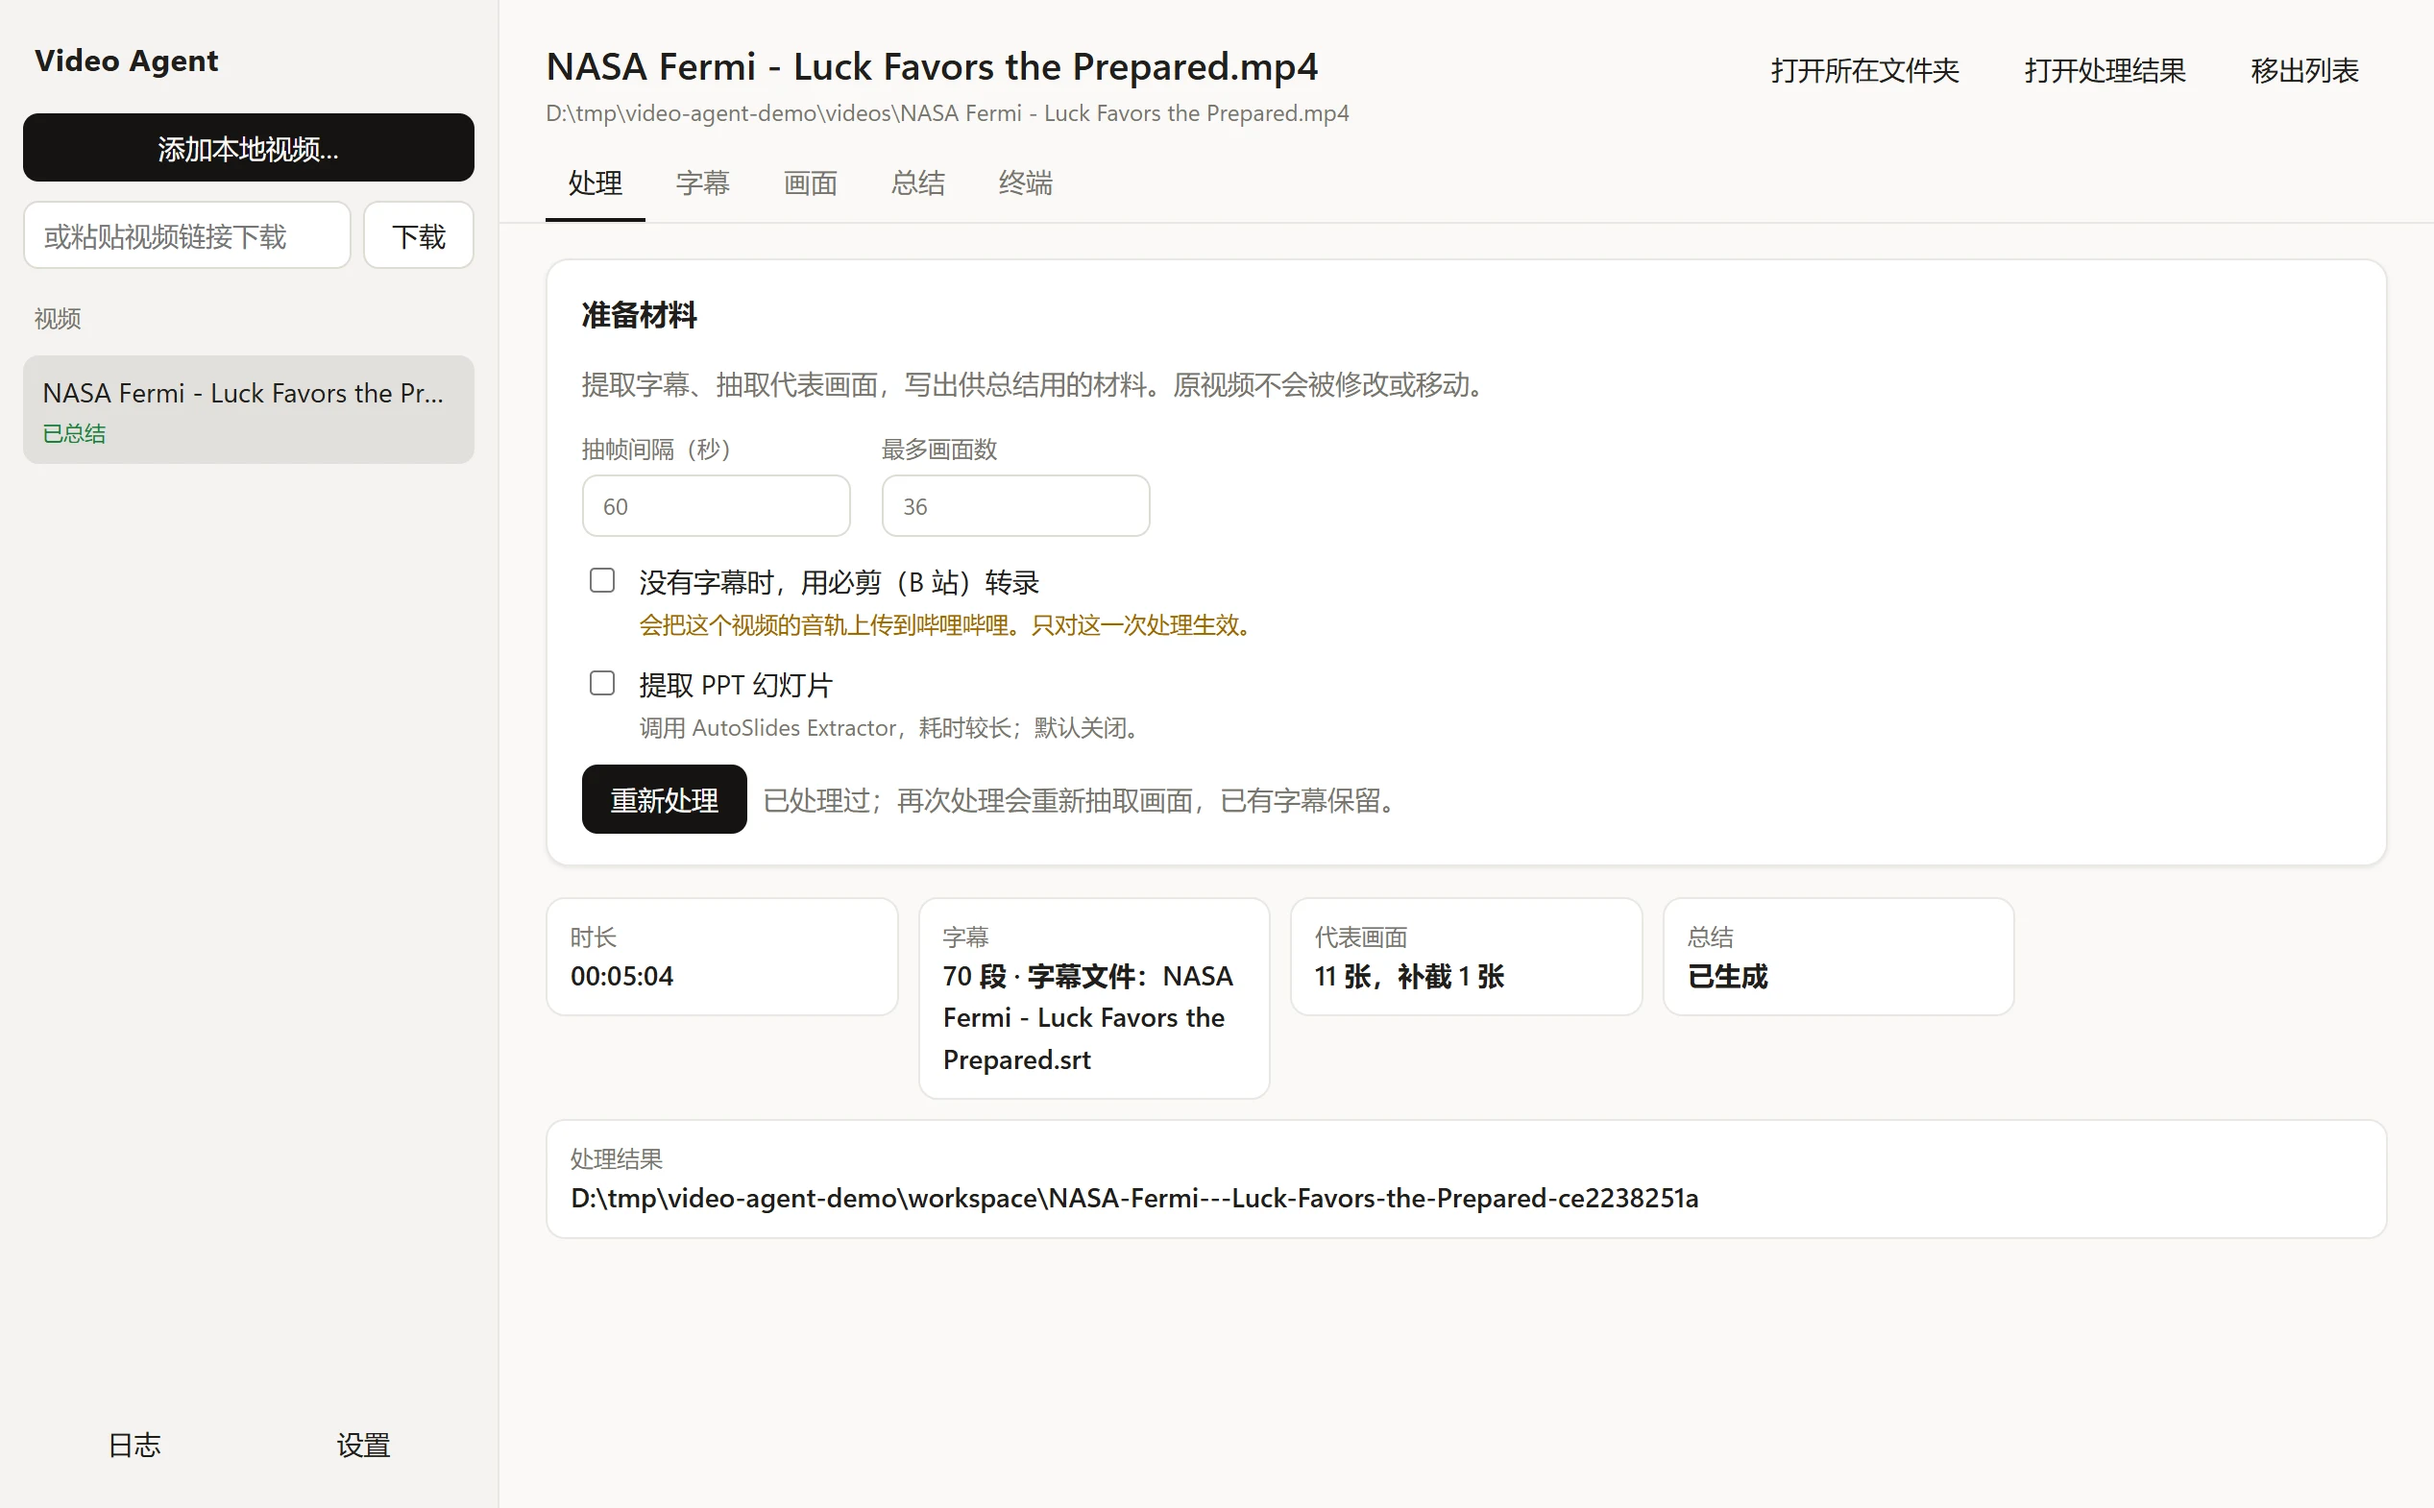
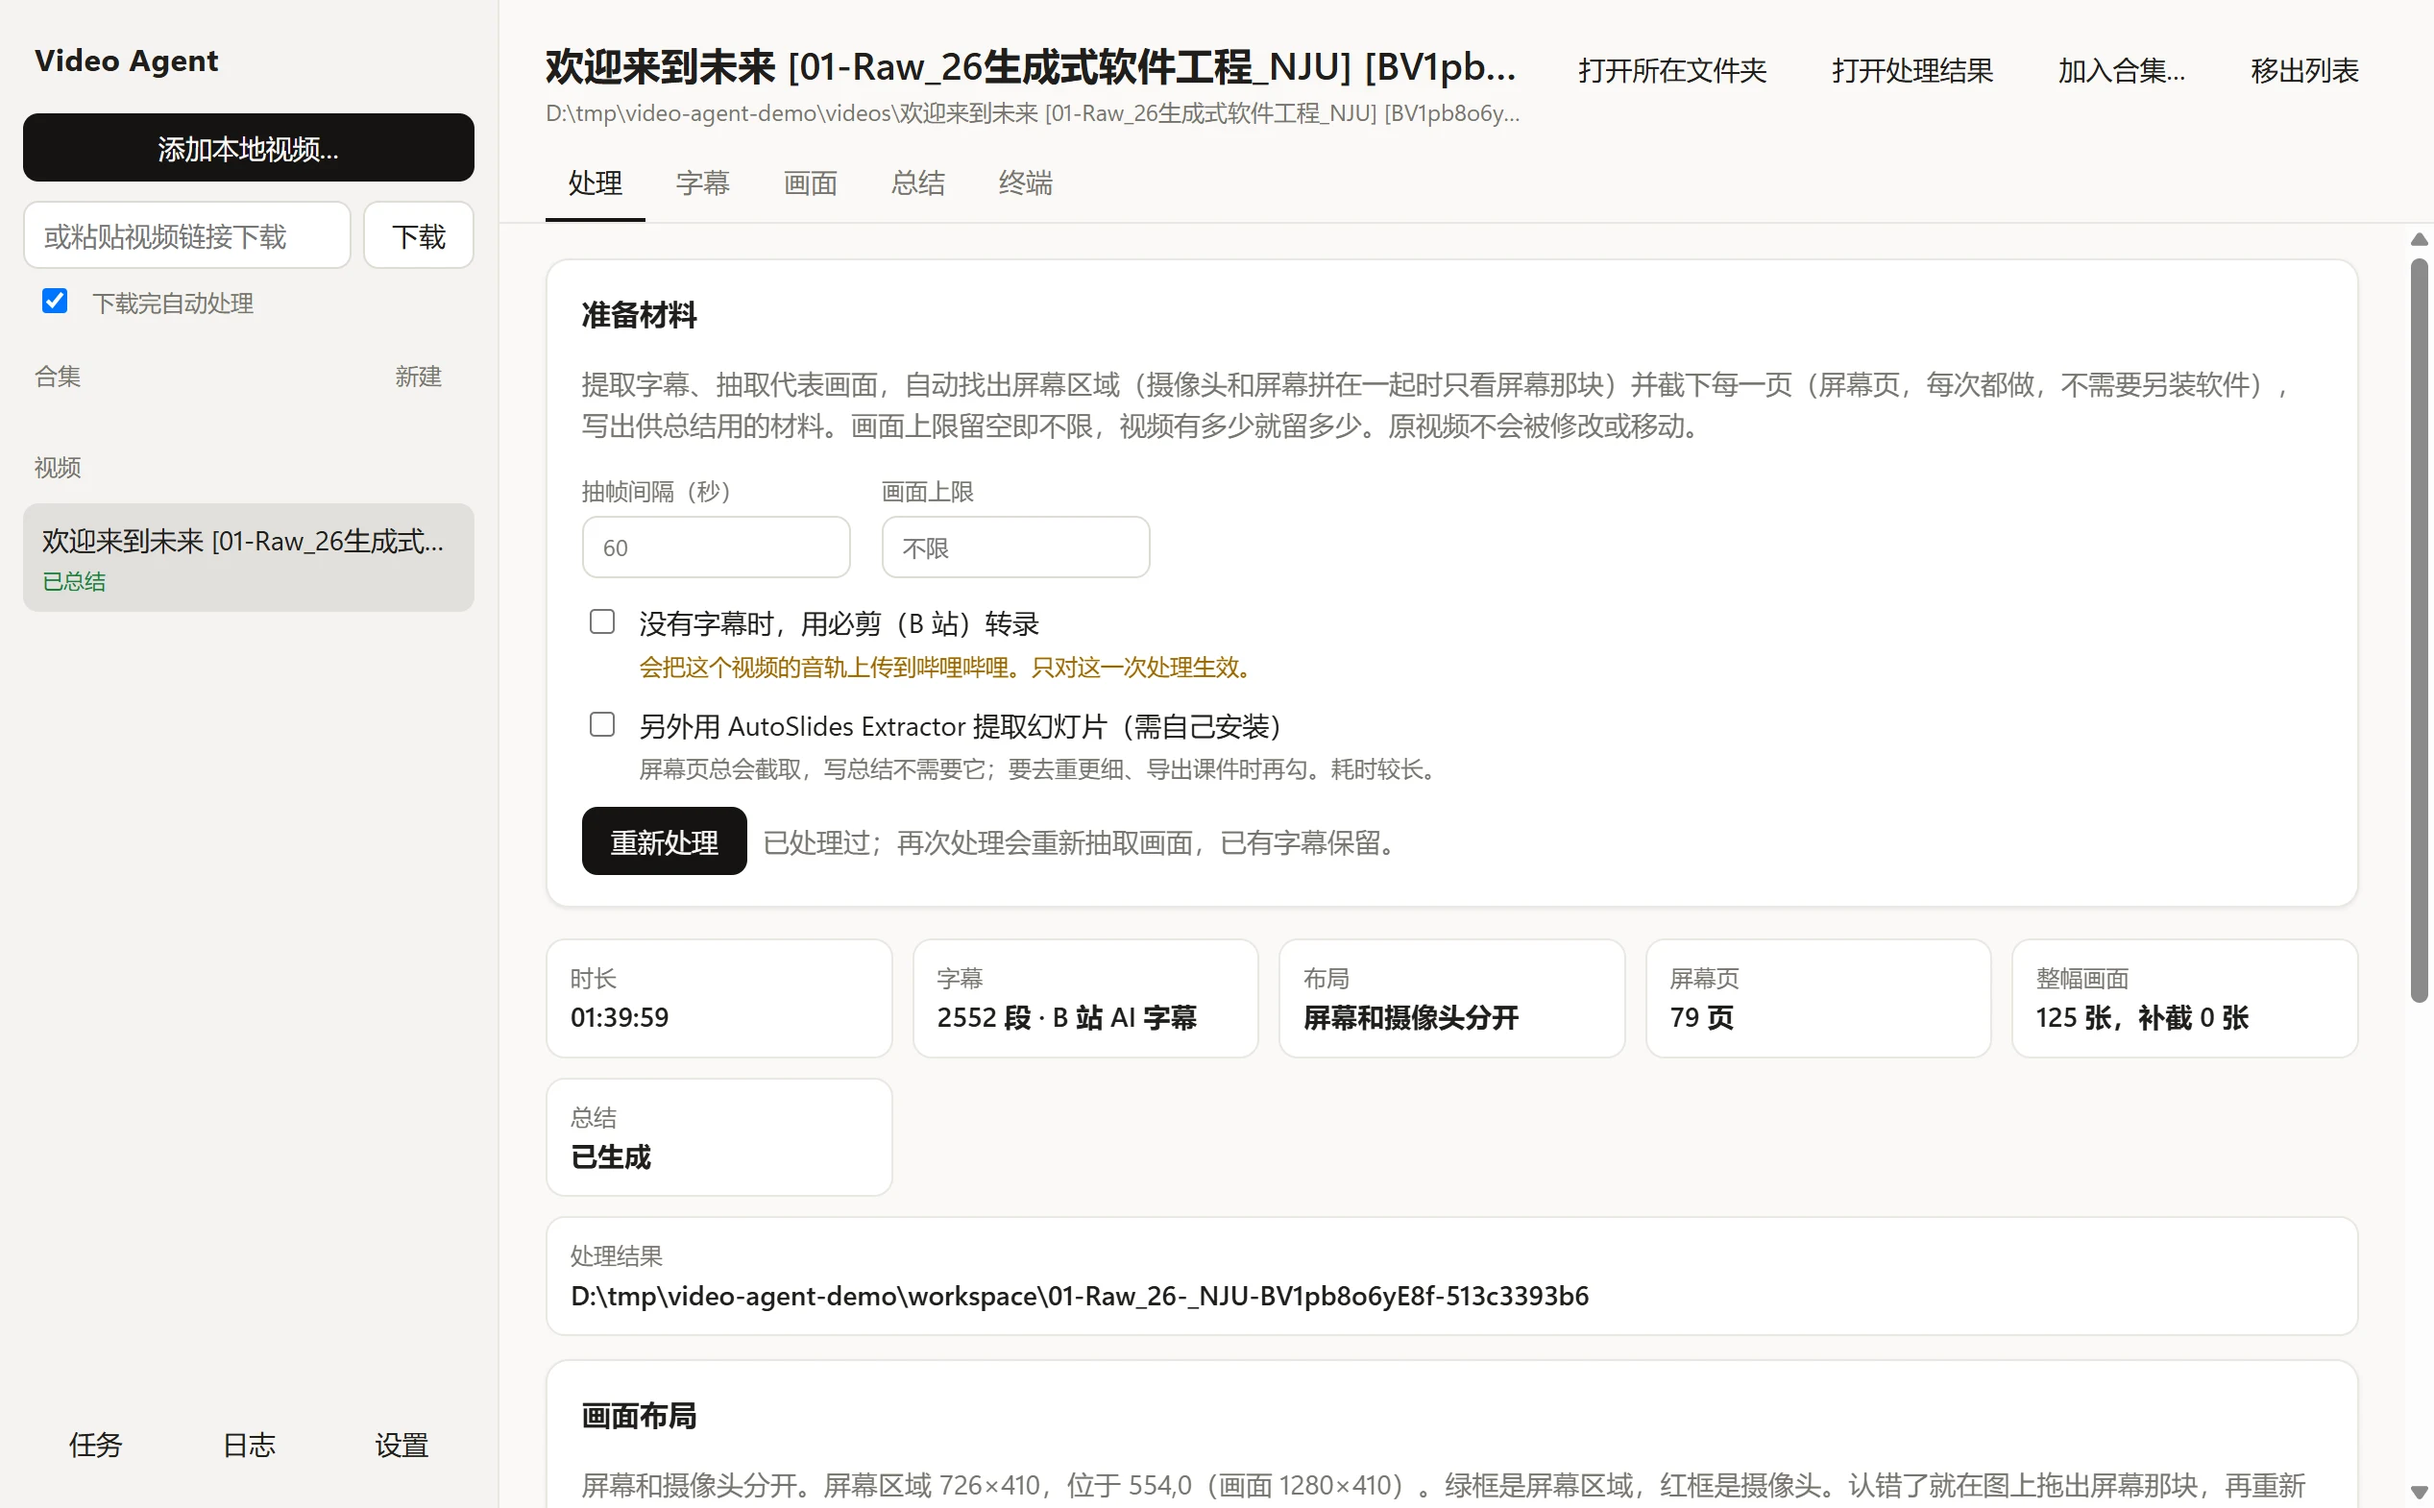
Video Agent 0.8.0: summary versions, better chat AI imports; README screenshots of the current window

diff --git a/src/video_agent/__init__.py b/src/video_agent/__init__.py
@@ -1,3 +1,3 @@
 """Package metadata for the local video processing CLI."""
 
-__version__ = '0.7.0'
+__version__ = '0.8.0'

diff --git a/skills/video-agent/SKILL.md b/skills/video-agent/SKILL.md
@@ -1,14 +1,14 @@
 ---
 name: video-agent
 description: Summarize any video from a local file or a link - prepare its transcript (existing subtitles first, BCut speech recognition only with the user's consent) and representative frames with the Video Agent CLI, look at the frames, and write a timestamped summary. Use for requests to summarize, take notes on, or answer questions about a video, lecture recording, talk, tutorial or news clip, given as a file path or a URL.
-allowed-tools: Bash(video-agent *), Bash(uvx --from https://github.com/edsfod/video-agent/releases/download/v0.7.0/video_agent-0.7.0-py3-none-any.whl video-agent *)
+allowed-tools: Bash(video-agent *), Bash(uvx --from https://github.com/edsfod/video-agent/releases/download/v0.8.0/video_agent-0.8.0-py3-none-any.whl video-agent *)
 ---
 
 # Video Agent
 
 ## Running commands
 
-`<video-agent>` stands for `video-agent` when that command is on `PATH` (the desktop installer adds its bundled copy; `uv tool install` adds one too), and otherwise for `uvx --from https://github.com/edsfod/video-agent/releases/download/v0.7.0/video_agent-0.7.0-py3-none-any.whl video-agent`, which fetches this skill's matching version of the CLI on first use; it needs uv but not git, and brings its own FFmpeg and yt-dlp. Check once with `video-agent --help`. If neither works because `uv` is missing, tell the user to install the Video Agent desktop app from https://github.com/edsfod/video-agent/releases or uv (`winget install astral-sh.uv`), and to start a new session afterwards so the new `PATH` is seen. Run each command as a single `<video-agent> …` with the paths written out and no `cd`, variables, `&&` or pipes, so a harness can approve the prefix once. Quote paths that contain spaces or brackets.
+`<video-agent>` stands for `video-agent` when that command is on `PATH` (the desktop installer adds its bundled copy; `uv tool install` adds one too), and otherwise for `uvx --from https://github.com/edsfod/video-agent/releases/download/v0.8.0/video_agent-0.8.0-py3-none-any.whl video-agent`, which fetches this skill's matching version of the CLI on first use; it needs uv but not git, and brings its own FFmpeg and yt-dlp. Check once with `video-agent --help`. If neither works because `uv` is missing, tell the user to install the Video Agent desktop app from https://github.com/edsfod/video-agent/releases or uv (`winget install astral-sh.uv`), and to start a new session afterwards so the new `PATH` is seen. Run each command as a single `<video-agent> …` with the paths written out and no `cd`, variables, `&&` or pipes, so a harness can approve the prefix once. Quote paths that contain spaces or brackets.
 
 When a command fails, tell the user what it said instead of working around it: do not call FFmpeg, yt-dlp or BCut yourself and do not edit the CLI. The full command reference is `docs/commands.md` in the repository.
 

diff --git a/README.md b/README.md
@@ -44,7 +44,7 @@ Video Agent 由三部分组成，按需取用：
 **只装命令行工具**：先装 [uv](https://docs.astral.sh/uv/)（`winget install astral-sh.uv`），再运行
 
 ```powershell
-uv tool install https://github.com/edsfod/video-agent/releases/download/v0.7.0/video_agent-0.7.0-py3-none-any.whl
+uv tool install https://github.com/edsfod/video-agent/releases/download/v0.8.0/video_agent-0.8.0-py3-none-any.whl
 ```
 
 FFmpeg 和 yt-dlp 会作为依赖一起装上，不需要 git。电脑上已经有的 ffmpeg、ffprobe、yt-dlp（包括 [Media Downloader](https://github.com/mhogomchungu/media-downloader) 自带的 yt-dlp）会优先使用。
@@ -205,4 +205,4 @@ You should have received a copy of the GNU Affero General Public License along w
 - 下载用 [yt-dlp](https://github.com/yt-dlp/yt-dlp)，媒体处理用 [FFmpeg](https://ffmpeg.org/)（安装程序里是自己编译的 LGPL 版，带 [dav1d](https://code.videolan.org/videolan/dav1d) 解码 AV1，源码随每个发布版提供；用 uv 或 pip 安装时随 [imageio-ffmpeg](https://github.com/imageio/imageio-ffmpeg) 装上），安装程序里的命令行工具用 [PyInstaller](https://pyinstaller.org/) 打包，另外提取幻灯片用 [AutoSlides Extractor](https://github.com/bit-admin/AutoSlides-Extractor)。
 - 界面的浅色和深色配色取自 [AutoSlides](https://github.com/bit-admin/Yanhekt-AutoSlides) 的主题文件（Apache License 2.0）；任务队列的设计（排队而不是拒绝、按类型限制同时运行的数量、去重）参考了它的下载队列，代码是本项目自己写的。
 - 安装程序附带的所有第三方组件和它们的许可证，见安装目录里的 `THIRD-PARTY-NOTICES.txt`。
-- 截图里的视频和字幕来自 NASA 戈达德太空飞行中心的 [NASA's Fermi Mission Shows How Luck Favors the Prepared](https://images.nasa.gov/details/GSFC_20181108_FERMI_m13042_Luck4K)（2018），按 [NASA 的媒体使用规定](https://www.nasa.gov/nasa-brand-center/images-and-media/)用于演示。截图里的总结由 AI（Qwen3.5，经模型 API）生成，不是 NASA 的说法，未经 NASA 审核，NASA 不对其准确性负责；本项目与 NASA 无关，也未获 NASA 认可。
+- 截图里的视频和字幕是南京大学《生成式软件工程》第 1 讲「欢迎来到未来」（蒋炎岩，[B 站公开课](https://www.bilibili.com/video/BV1pb8o6yE8f)），用于演示；课件和讲课内容的版权归讲者所有。截图里的总结由网页 AI 按本项目的规则写成，不代表讲者的观点，未经讲者审核；本项目与讲者和南京大学无关。

diff --git a/docs/releases/v0.8.0.md b/docs/releases/v0.8.0.md
@@ -1,0 +1,22 @@
+**新增：总结不会再被覆盖。** 已经有总结时，再生成或导入的新总结会另存为一个版本，原来的不动。在「总结」页上方的「版本」里可以切换查看每个版本（写明时间、用什么写的、备注），自己决定要不要「设为当前」，也可以写备注或删除。换成别的版本时，原来那份也留作一个版本。Claude Code、Codex 写总结时同样如此；就算它们直接改了文件，程序在开始前也已经存了一份。合集总结和学习提纲也一样不会被覆盖。
+
+**改进：网页 AI 写的总结导入得更好。**
+
+- 导入时可以写备注（比如用的是哪个模型），也可以选是否直接设为当前总结（默认不设）。
+- Gemini、ChatGPT 网页版会把总结里的画面链接改成搜索链接或它们自己的地址，导致点不开；现在导入时会自动改回来，「打开视频」链接也会补上。
+- 网页 AI 没法自己整理字幕的错字：现在材料里会请它在总结最后列一节「字幕改正」，导入时程序照着整理字幕（原字幕保留），再把这一节从总结里去掉。
+
+**其他：** README 的截图换成了现在的界面。命令行新增 `video-agent versions`，查看和切换总结的各个版本；`summarize --import` 多了 `--note`、`--source`，`--make-current` 表示让新总结直接成为当前总结。
+
+从 0.6.2 及以后的版本更新，只下载变化的部分；设置和工作区都保留。
+
+- **桌面程序**：下载 `Video-Agent-Setup-0.8.0.exe`，直接运行即可覆盖旧版本。安装包没有代码签名，Windows SmartScreen 可能提示“未知发布者”，选“仍要运行”即可。
+- **命令行工具**（需要 uv，不需要 git）：
+
+  ```powershell
+  uv tool install --force https://github.com/edsfod/video-agent/releases/download/v0.8.0/video_agent-0.8.0-py3-none-any.whl
+  ```
+
+  用 uv 安装时，FFmpeg 由 [imageio-ffmpeg](https://github.com/imageio/imageio-ffmpeg) 从 PyPI 提供；电脑上已有的 ffmpeg 会优先使用。
+
+本页附有安装包里 LGPL FFmpeg 的完整源码（`ffmpeg-9.0.2.tar.xz`、`dav1d-1.5.4.tar.xz`）和编译说明（`FFmpeg-BUILD.txt`），与 0.3.0 相同。

diff --git a/ARCHITECTURE.md b/ARCHITECTURE.md
@@ -1,6 +1,6 @@
 # Architecture
 
-Status: 0.7.0 (BCut client written anew) released on 2026-10-28. CLI phase 1 implemented and verified end to end on one Bilibili video on 2026-10-26 (download, BCut transcription, representative frames, summary context). `summarize`, the Agent skill and the GUI are implemented and tested (2026-10-27); see "Status and open items". Nothing is released until the user says so (user decision, 2026-10-27).
+Status: 0.7.0 (BCut client written anew) released on 2026-10-28; 0.8.0 (summary versions, chat AI imports) prepared on 2026-10-28. CLI phase 1 implemented and verified end to end on one Bilibili video on 2026-10-26 (download, BCut transcription, representative frames, summary context). `summarize`, the Agent skill and the GUI are implemented and tested (2026-10-27); see "Status and open items". Nothing is released until the user says so (user decision, 2026-10-27).
 
 ## Platform — user decision
 
